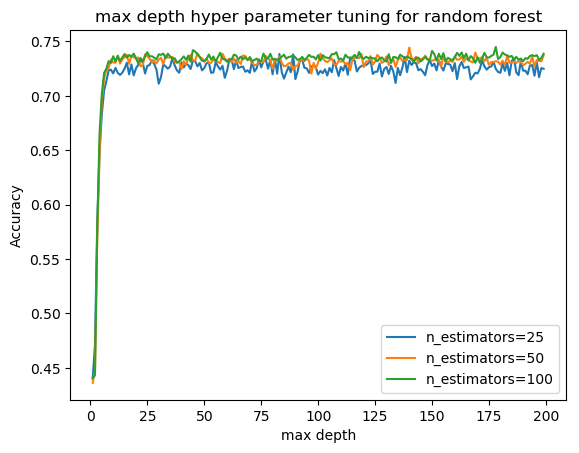
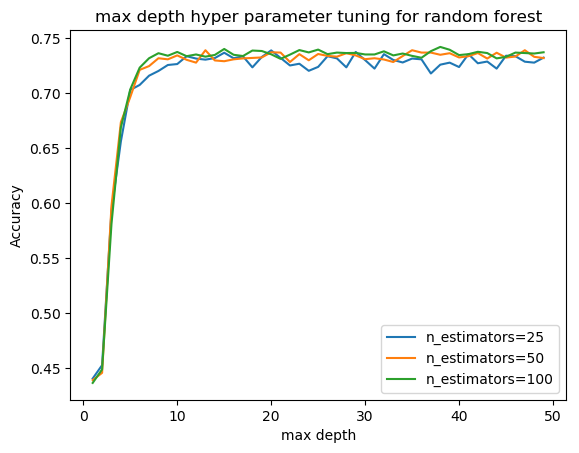
cross validation finished

diff --git a/cross_validation.py b/cross_validation.py
@@ -27,9 +27,9 @@ class crossValidator():
         self.best_mlp = None
         self.num_of_classes = 13
 
-    def getBestSVM(self, graphic=False):
+    def tuneSVM(self, c_steps ,type='coarse', graphic=True):
         scores = []
-        c_list = np.arange(0.1, 10, 0.1)
+        c_list = c_steps
         for C in c_list:
             print("training for C=", C)
             avg_score = 0
@@ -49,16 +49,20 @@ class crossValidator():
             plt.title('C hyperparameter tuning for SVM')
             plt.ylabel('Accuracy')
             plt.xlabel('C value')
-            #plt.xscale('log')
+            if type == 'coarse':
+                plt.xscale('log')
+                name = 'SVM_C_hyper_fig_coarse.png'
+            else:
+                name = 'SVM_C_hyper_fig_fine.png'
             fig = plt.gcf()
-            path = PLOTS_PATH + '\\' + 'SVM_C_hyper_fig.png'
+            path = PLOTS_PATH + '\\' + name
             fig.savefig(path, bbox_inches='tight')
             plt.show()
 
-    def getBestKNN(self, graphic=True):
+    def tuneKNN(self, k_stop,graphic=True):
         scores_uniform = []
         scores_distance = []
-        k_list = np.arange(1, 201, 2)
+        k_list = np.arange(1, k_stop, 2)
         for k in k_list:
             print("training for k=", k)
             avg_score_uniform = 0
@@ -90,11 +94,11 @@ class crossValidator():
             fig.savefig(path, bbox_inches='tight')
             plt.show()
 
-    def tuneNForest(self, graphic=True):
+    def tuneNForest(self, n_stop, graphic=True):
         scores1 = []
         scores2 = []
         scores3 = []
-        n_list = np.arange(1, 200, 1)
+        n_list = np.arange(1, n_stop, 1)
         for n in n_list:
             print("training for n=", n)
             avg_score1 = 0
@@ -133,11 +137,11 @@ class crossValidator():
             fig.savefig(path, bbox_inches='tight')
             plt.show()
 
-    def tuneDepthForest(self, graphic=True):
+    def tuneDepthForest(self, d_stop,graphic=True):
         scores1 = []
         scores2 = []
         scores3 = []
-        d_list = np.arange(1, 200, 1)
+        d_list = np.arange(1, d_stop, 1)
         for d in d_list:
             print("training for d=", d)
             avg_score1 = 0
@@ -179,7 +183,7 @@ class crossValidator():
         scores1 = []
         scores2 = []
         scores3 = []
-        s_list = np.arange(0.01, 1, 0.01)
+        s_list = np.arange(0.01, 1, 0.05)
         for s in s_list:
             print("training for s=", s)
             avg_score1 = 0
@@ -220,60 +224,60 @@ class crossValidator():
     def tuneMLP(self, graphic=True):
         scores1 = []
         scores2 = []
-        scores3 = []
-        scores4 = []
-        scores5 = []
-        scores6 = []
-        h_list = np.arange(5, 200, 5)
+        #scores3 = []
+        #scores4 = []
+        #scores5 = []
+        #scores6 = []
+        h_list = np.arange(5, 170, 20)
         for h in h_list:
             print("training for h=", h)
             avg_score1 = 0
             avg_score2 = 0
-            avg_score3 = 0
-            avg_score4 = 0
-            avg_score5 = 0
-            avg_score6 = 0
+            #avg_score3 = 0
+            #avg_score4 = 0
+            #avg_score5 = 0
+            #avg_score6 = 0
             mlp1 = MLPClassifier([h], activation='relu', max_iter=1000)
             mlp2 = MLPClassifier([h, h], activation='relu', max_iter=1000)
-            mlp3 = MLPClassifier([h, h, h], activation='relu', max_iter=1000)
-            mlp4 = MLPClassifier([h], activation='tanh', max_iter=1000)
-            mlp5 = MLPClassifier([h, h], activation='tanh', max_iter=1000)
-            mlp6 = MLPClassifier([h, h, h], activation='tanh', max_iter=1000)
+            #mlp3 = MLPClassifier([h, h, h], activation='relu', max_iter=1000)
+            #mlp4 = MLPClassifier([h], activation='tanh', max_iter=1000)
+            #mlp5 = MLPClassifier([h, h], activation='tanh', max_iter=1000)
+            #mlp6 = MLPClassifier([h, h, h], activation='tanh', max_iter=1000)
             for train_index, test_index in self.kf.split(self.set_x):
                 x_train, x_test = self.set_x[train_index], self.set_x[test_index]
                 y_train, y_test = self.set_y[train_index], self.set_y[test_index]
                 mlp1.fit(x_train, y_train)
                 mlp2.fit(x_train, y_train)
-                mlp3.fit(x_train, y_train)
-                mlp4.fit(x_train, y_train)
-                mlp5.fit(x_train, y_train)
-                mlp6.fit(x_train, y_train)
+                #mlp3.fit(x_train, y_train)
+                #mlp4.fit(x_train, y_train)
+                #mlp5.fit(x_train, y_train)
+                #mlp6.fit(x_train, y_train)
                 score1 = mlp1.score(x_test, y_test)
                 score2 = mlp2.score(x_test, y_test)
-                score3 = mlp3.score(x_test, y_test)
-                score4 = mlp4.score(x_test, y_test)
-                score5 = mlp5.score(x_test, y_test)
-                score6 = mlp6.score(x_test, y_test)
+                #score3 = mlp3.score(x_test, y_test)
+                #score4 = mlp4.score(x_test, y_test)
+                #score5 = mlp5.score(x_test, y_test)
+                #score6 = mlp6.score(x_test, y_test)
                 avg_score1 += score1
                 avg_score2 += score2
-                avg_score3 += score3
-                avg_score4 += score4
-                avg_score5 += score5
-                avg_score6 += score6
+                #avg_score3 += score3
+                #avg_score4 += score4
+                #avg_score5 += score5
+                #avg_score6 += score6
             scores1.append(avg_score1 / self.k)
             scores2.append(avg_score2 / self.k)
-            scores3.append(avg_score3 / self.k)
-            scores4.append(avg_score4 / self.k)
-            scores5.append(avg_score5 / self.k)
-            scores6.append(avg_score6 / self.k)
+            #scores3.append(avg_score3 / self.k)
+            #scores4.append(avg_score4 / self.k)
+            #scores5.append(avg_score5 / self.k)
+            #scores6.append(avg_score6 / self.k)
 
         if graphic:
             plt.plot(h_list, scores1, label="1 hidden, relu")
             plt.plot(h_list, scores2, label="2 hidden, relu")
-            plt.plot(h_list, scores3, label="3 hidden, relu")
-            plt.plot(h_list, scores4, label="1 hidden, tanh")
-            plt.plot(h_list, scores5, label="2 hidden, tanh")
-            plt.plot(h_list, scores6, label="3 hidden, tanh")
+            #plt.plot(h_list, scores3, label="3 hidden, relu")
+            #plt.plot(h_list, scores4, label="1 hidden, tanh")
+            #plt.plot(h_list, scores5, label="2 hidden, tanh")
+            #plt.plot(h_list, scores6, label="3 hidden, tanh")
             plt.title('hidden layers size tuning for MLP')
             plt.ylabel('Accuracy')
             plt.xlabel('hidden layers size')

diff --git a/report.tex b/report.tex
@@ -122,7 +122,7 @@ Support vector machines are a set of supervised learning methods used for classi
 \label{fig:test}
 \end{figure}
 
-To select the right value for C hyper parameter we used the k-fold cross validation technique. First we performed cross-validation of a big range of C values with exponential steps and got a plot. Then we repeated the process with smaller range and smaller steps for fine tuning. As we can see from the plots, the bet accuracy achieved with C = 0.8, thus this value with be selected for SVM model.
+To select the right value for C hyper parameter we used the k-fold cross validation technique. First we performed cross-validation of a big range of C values with exponential steps and got a plot. Then we repeated the process with smaller range and smaller steps for fine tuning. As we can see from the plots, the best accuracy achieved with C = 20 after which we can't see any improvement, thus this value with be selected for SVM model.
 
 \begin{figure}[h]
 \centering
@@ -150,7 +150,7 @@ Neighbors-based classification is a type of instance-based learning or non-gener
 \includegraphics[width=0.3\textwidth]{report_pics/knn}
 \caption{Classification depends on weight function}
 \end{figure}
-To select the right value for k hyper parameter we used the k-fold cross validation technique for both knn models, with different weight types, as shown on below. We ended up with k = 85 after which we didn't notice significant accuracy improvement. As we clearly can see from the plot, the KNN with distance weights performed better with all values of k.
+To select the right value for k hyper parameter we used the k-fold cross validation technique for both knn models, with different weight types, as shown on below. We ended up with k = 3 after which the accuracy starts to decease. As we clearly can see from the plot, the KNN with distance weights performed better with all values of k.
 \begin{figure}[h]
 \centering
 \includegraphics[width=0.6\textwidth]{Cross_valid_plots/k_hyper_fig}
@@ -163,7 +163,7 @@ To select the right value for k hyper parameter we used the k-fold cross validat
 A random forest is a meta estimator that fits a number of decision tree classifiers on various sub-samples of the dataset and uses averaging to improve the predictive accuracy and control over-fitting. According to \href{https://medium.com/all-things-ai/in-depth-parameter-tuning-for-random-forest-d67bb7e920d}{medium.com post} the most important parameters of this classifier are:
 \begin{enumerate}
 	\item Number of trees - Usually the higher the number of trees the better to learn the data. However, adding a lot of trees can slow down the training process. Based on the experiments conducted we decided to go with 50 trees as for bigger values we didn't noticed any improvement.
-	\item Maximum depth - represents the depth of each tree in the forest. The deeper the tree, the more splits it has and it captures more information about the data. The downside of a deeper tree, that it tends to overfit. Based on the plots we decided to set the depth to 15.
+	\item Maximum depth - represents the depth of each tree in the forest. The deeper the tree, the more splits it has and it captures more information about the data. The downside of a deeper tree, that it tends to overfit. Based on the plots we decided to set the depth to 8 as bigger values does not increase accuracy.
 	\item Minimum samples split - represents the minimum number of samples required to split an internal node. Large numbers will cause the nodes of the trees not to split at all disabling it's ability to learn. As we can see on the plot, the best accuracy was achieved with the smallest value of 0.01 which means minimum 70 samples for a split.
 \end{enumerate}
 
@@ -204,10 +204,10 @@ N_h = \dfrac{N_s}{\alpha * (N_i + N_o)}
 \end{gather*}
 while $N_o$ is number of output neurons, $N_i$ is number of input neurons, $N_s$ number of training samples and $\alpha$ is arbitrary factor between 2 and 10. In our case, for $\alpha = 10$ 
 causing upper bound of 166 neurons in hidden layer. Thus, during cross validation we will test numbers in this range.
-	\item Activation function - The default option is ReLU, but we would like to perform the experiment with tanh function as well.
+	\item Activation function - we decided to use the default option which is ReLU.
 \end{enumerate}
 
-We decided to leave other parameters at their default values as the problem of selecting the optimal neural network model is complex by itself and not should be covered in this submission, resulting 6 models trained and tested with different values of hidden layer size. As we can see from the plot, the results are not very promising and vary from iteration to iteration. We decided not to use this model at all because of inconsistency of the results.  
+We decided to leave other parameters at their default values as the problem of selecting the optimal neural network model is complex by itself and not should be covered in this submission, resulting 2 models trained and tested with different values of hidden layer size. As we can see from the plot, the number of hidden layers does not improve the model accuracy, while sufficient hidden layer size is 30.  
 
 \begin{figure}[h]
 \centering

diff --git a/main.py b/main.py
@@ -2,6 +2,8 @@ import matplotlib.pyplot as plt
 from data_provider import dataProvider
 from model_selector import modelSelector
 from feature_manipulator import featureManipulator
+from cross_validation import crossValidator
+import numpy as np
 
 from sklearn import svm
 from sklearn.neighbors import KNeighborsClassifier
@@ -15,32 +17,43 @@ def main():
     id_train, x_train, y_train = dp.get_train_xy()
     id_val, x_val, y_val = dp.get_val_xy()
     id_test, x_test, y_test = dp.get_test_xy()
-    models = [#svm.SVC(kernel='rbf', C=0.8, gamma='auto', probability=True),
-              KNeighborsClassifier(n_neighbors=85, weights='distance'),
-              RandomForestClassifier(n_estimators=50, max_depth=15, min_samples_split=0.01)]
-    model_names = [#'SVM_rbf',
-                   'KNN_distance',
-                   'Random_Forest']
 
-    sl = modelSelector(id_train, x_train, y_train,
-                       id_val, x_val, y_val,
-                       id_test, x_test, y_test,
-                       models, model_names, dict)
-    sl.fit()
-    sl.score_who_win(graphic=False)
-    #sl.score_transportation_prediction(graphic=True)
-    #sl.score_division_prediction(graphic=True)
+    # Cross validation
+    # cv = crossValidator(train_x=x_train, train_y=y_train, num_of_folds=3)
+    # cv.tuneSVM([10**-5,10**-4,10**-3,10**-2,10**-1,10**0,10**1,10**2,10**3,10**4,10**5], type='coarse')
+    # cv.tuneSVM(np.arange(0.1, 100, 0.5), type='fine')
+    # cv.tuneKNN(101)
+    # cv.tuneNForest(100)
+    # cv.tuneDepthForest(50)
+    # cv.tuneSplitForest()
+    # cv.tuneMLP()
 
-    #sl.predict_winner(x_test)
-    #sl.predict_vote_division(x_test)
-    #sl.predict_transportation(x_test)
-    #sl.draw_conf_matrix()
-
-    model = sl.get_best_winner_prediction_model()
-    feature_names = dp.get_feature_names()
-    fml = featureManipulator(model, x_test, feature_names, party_dict=dict)
-    fml.find_continuous_dramatic_feature()
-    fml.find_binary_dramatic_feature()
+    # models = [svm.SVC(kernel='rbf', C=20, gamma='auto', probability=True),
+    #           KNeighborsClassifier(n_neighbors=3, weights='distance'),
+    #           RandomForestClassifier(n_estimators=50, max_depth=8, min_samples_split=0.01)]
+    # model_names = ['SVM_rbf',
+    #                'KNN_distance',
+    #                'Random_Forest']
+    #
+    # sl = modelSelector(id_train, x_train, y_train,
+    #                    id_val, x_val, y_val,
+    #                    id_test, x_test, y_test,
+    #                    models, model_names, dict)
+    # sl.fit()
+    # sl.score_who_win(graphic=True)
+    # #sl.score_transportation_prediction(graphic=True)
+    # sl.score_division_prediction(graphic=True)
+    #
+    # #sl.predict_winner(x_test)
+    # #sl.predict_vote_division(x_test)
+    # #sl.predict_transportation(x_test)
+    # #sl.draw_conf_matrix()
+    #
+    # model = sl.get_best_winner_prediction_model()
+    # feature_names = dp.get_feature_names()
+    # fml = featureManipulator(model, x_test, feature_names, party_dict=dict)
+    # fml.find_continuous_dramatic_feature()
+    # fml.find_binary_dramatic_feature()
 
 if __name__ == "__main__":
     main()

diff --git a/model_selector.py b/model_selector.py
@@ -7,6 +7,7 @@ from sklearn.metrics import accuracy_score
 from sklearn.metrics import precision_score
 from sklearn.metrics import recall_score
 from sklearn.metrics import confusion_matrix
+from hist_plotter import plot_hist
 
 PATH_WINNER_PARTY_PLOTS = 'Winner_party_plots'
 PATH_VOTE_PREDICTION_PLOTS = 'Vote_prediction_plots'
@@ -90,17 +91,12 @@ class modelSelector():
             curr_norm = np.linalg.norm(pred_hist, ord=np.inf)
 
             if graphic:
-                plt.hist([predictions, self.y_val.tolist()], bins=13, label=['predictions', 'test data'])
                 supttl = 'Winner party predictions'
-                plt.suptitle(supttl)
-                plt.ylim((0, 850))
                 ttl = 'model: ' + model_name + "inf norm=" + str(curr_norm)
-                plt.title(ttl)
-                plt.legend()
-                fig = plt.gcf()
                 path = PATH_WINNER_PARTY_PLOTS + '\\' + model_name + '_fig.png'
-                fig.savefig(path, bbox_inches='tight')
-                plt.show()
+
+                plot_hist(path, ttl, predictions, self.y_val.tolist(),
+                          'predictions', 'true labels', self.party_dict, suptitle=supttl)
 
             pred_winner = max(set(predictions), key=predictions.tolist().count)
             real_winner = max(set(self.y_test), key=self.y_test.tolist().count)
@@ -140,17 +136,11 @@ class modelSelector():
             self.division_dist.append(dist)
 
             if graphic:
-                plt.hist([predictions, self.y_val.tolist()], bins=13, label=['predictions', 'test data'])
                 supttl = 'Votes division predictions - hist dist = ' + str(np.round(dist))
-                plt.suptitle(supttl)
-                plt.ylim((0, 850))
                 ttl = 'model' + model_name
-                plt.title(ttl)
-                plt.legend()
-                fig = plt.gcf()
                 path = PATH_DIVISION_PREDICTION_PLOTS + '\\' + model_name + '_fig.png'
-                fig.savefig(path, bbox_inches='tight')
-                plt.show()
+                plot_hist(path, ttl, predictions, self.y_val.tolist(),
+                          'predictions', 'true labels', self.party_dict, suptitle=supttl)
 
             if dist < shortest_dist:
                 shortest_dist = dist

diff --git a/hist_plotter.py b/hist_plotter.py
@@ -2,7 +2,7 @@ import matplotlib.pyplot as plt
 import numpy as np
 
 
-def plot_hist(path, title, hist1, hist2, lbl1, lbl2, dict, save=True):
+def plot_hist(path, title, hist1, hist2, lbl1, lbl2, dict, save=True, suptitle=None):
     plt.hist([hist1, hist2], bins=np.arange(13) - 0.5, label=[lbl1, lbl2])
     plt.xlim([-1, 13])
     plt.legend()
@@ -11,6 +11,8 @@ def plot_hist(path, title, hist1, hist2, lbl1, lbl2, dict, save=True):
     plt.xticks(keys, values, rotation='vertical')
     plt.ylabel('number of votes')
     plt.xlabel('party number')
+    if suptitle is not None:
+        plt.suptitle(suptitle)
     plt.title(title)
     fig = plt.gcf()
     fig.savefig(path, bbox_inches='tight')
